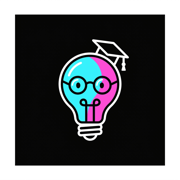
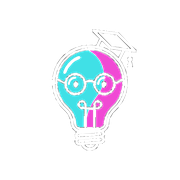
update

diff --git a/src/App.jsx b/src/App.jsx
@@ -3,13 +3,16 @@ const App = () => {
     <main className="wrap">
       <section className="hero">
         <div className="brand">schelling.sh</div>
-        <h1>
-          <span className="pink">identify previous thought.</span>
-          <br />
-          <span className="cyan">keep what mattered.</span>
-          <br />
-          <span className="lime">make the next time easier.</span>
-        </h1>
+        <div className="hero-lockup">
+          <h1>
+            <span className="pink">identify previous thought.</span>
+            <br />
+            <span className="cyan">keep what mattered.</span>
+            <br />
+            <span className="lime">make the next time easier.</span>
+          </h1>
+          <img src="/logo.svg" alt="schelling.sh logo" className="hero-logo" />
+        </div>
         <p className="lead">
           schelling.sh is a{" "}
           <span className="strong">

diff --git a/src/styles.css b/src/styles.css
@@ -53,6 +53,18 @@ body {
   font-weight: 700;
 }
 
+.hero-lockup {
+  display: flex;
+  align-items: center;
+  gap: 28px;
+}
+
+.hero-logo {
+  width: 220px;
+  height: 220px;
+  flex-shrink: 0;
+}
+
 h1 {
   margin: 0 0 18px;
   font-size: clamp(44px, 9vw, 88px);
@@ -228,5 +240,16 @@ pre {
 
   .hero {
     padding-top: 24px;
+  }
+
+  .hero-lockup {
+    flex-direction: column;
+    align-items: flex-start;
+    gap: 16px;
+  }
+
+  .hero-logo {
+    width: 120px;
+    height: 120px;
   }
 }
